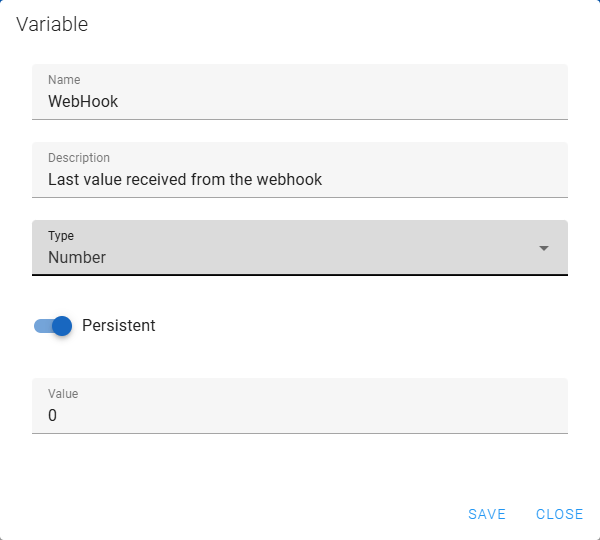
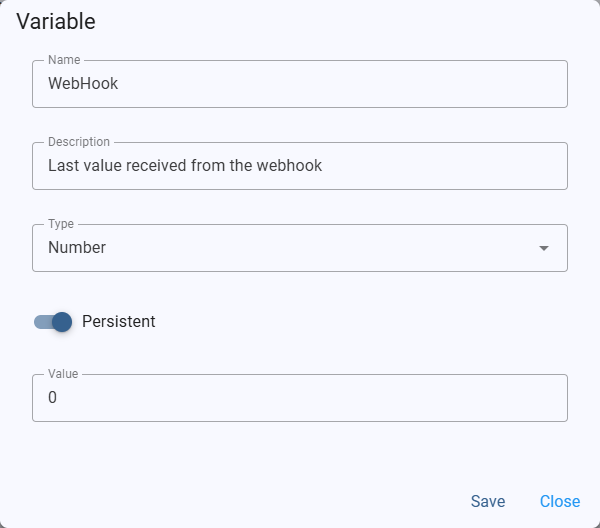
fix(docs): update first configuration guide and regenerate UI screenshots for light theme

diff --git a/tools/ui-screenshots/capture.js b/tools/ui-screenshots/capture.js
@@ -5,13 +5,13 @@ const clean = async page => { await page.addStyleTag({ content: '#__vue-devtools
 const shot = async (page, name, opts = {}) => { await clean(page); if (opts.dialog) { await page.locator('.v-overlay--active .v-overlay__content').last().screenshot({ path: out + name }); } else { await page.screenshot({ path: out + name, ...opts }); } console.log('saved', name); };
 (async () => {
   const browser = await chromium.launch({ channel: 'msedge', headless: true });
-  const page = await browser.newPage({ viewport: { width: 1400, height: 720 } });
-  await page.goto('http://localhost:5173/nodes');
+  // Light theme: the guide's images match the default look.
+  const page = await browser.newPage({ viewport: { width: 1400, height: 720 }, colorScheme: 'light' });
+  await page.goto('http://localhost:5173/nodes?theme=light');
   await page.getByText('System nodes').waitFor({ timeout: 20000 });
   await page.waitForTimeout(1500);
-  await page.locator('.v-app-bar-nav-icon').click(); await page.waitForTimeout(800);
+  // The navigation drawer is open on a wide window: the image shows it next to the empty list.
   await shot(page, 'configure-nodes-empty.png');
-  await page.locator('.v-app-bar-nav-icon').click(); await page.waitForTimeout(500);
 
   await page.getByRole('button', { name: /new node/i }).click();
   await page.getByLabel('Node Name').fill('Garage node');
@@ -36,11 +36,11 @@ const shot = async (page, name, opts = {}) => { await clean(page); if (opts.dial
   await shot(page, 'report-template.png', { dialog: true });
   await dlg.getByRole('button', { name: /save/i }).click(); await page.waitForTimeout(800);
   await page.getByRole('button', { name: /^save/i }).last().click(); await page.waitForTimeout(6000);
-  await page.goto('http://localhost:5173/nodes'); await page.getByText('System nodes').waitFor(); await page.waitForTimeout(4000);
-  await shot(page, 'configure-nodes.png', { clip: { x: 0, y: 64, width: 1400, height: 260 } });
+  await page.goto('http://localhost:5173/nodes?theme=light'); await page.getByText('System nodes').waitFor(); await page.waitForTimeout(4000);
+  await page.locator('.v-data-table').filter({ hasText: 'System nodes' }).first().screenshot({ path: out + 'configure-nodes.png' }); console.log('saved configure-nodes.png');
 
   await page.goto('http://localhost:5173/variables'); await page.waitForTimeout(4000);
-  await page.getByRole('button', { name: /add new/i }).click(); await page.waitForTimeout(800);
+  await page.getByRole('button', { name: /new variable/i }).click(); await page.waitForTimeout(800);
   const v = page.locator('.v-overlay--active').last();
   await v.getByLabel('Name').fill('WebHook');
   await v.getByLabel('Description').fill('Last value received from the webhook');

diff --git a/docs/guides/first-configuration.md b/docs/guides/first-configuration.md
@@ -10,8 +10,8 @@ Elsa, and the UI shows it live. See the [architecture overview](../architecture/
 
 ## 1. Open the configuration view
 
-Open the UI (`http://<host>/`), open the menu (☰) and select **Configure**. While no nodes are
-configured, the list is empty:
+Open the UI (`http://<host>/`) and select **Configure** in the menu (on a narrow screen, open the menu with ☰
+first). The **Nodes** page lists the nodes and the connectors; while none are configured, both lists are empty:
 
 ![Configure view with the menu open](images/configure-nodes-empty.png)
 
@@ -21,7 +21,7 @@ configured, the list is empty:
 
 ## 2. Create the node
 
-Click **new node** in the toolbar, give the node a name, and pick its **Node Id** from the list.
+Click **New node**, give the node a name, and pick its **Node Id** from the list.
 The list shows nodes that are online but not configured yet, so it contains the `RIOT2_NODE_ID`
 you gave the node container.
 
@@ -83,7 +83,7 @@ curl http://<host>:8080/api/report/<report-template-id>/value
 ## 6. Create a variable
 
 Variables hold values in the orchestrator that workflows can read and write. Open **Variables**
-from the menu, click **new**, and create a variable:
+from the menu, click **New variable**, and create a variable:
 
 ![Variable dialog](images/variable.png)
 

diff --git a/tools/ui-screenshots/README.md b/tools/ui-screenshots/README.md
@@ -61,5 +61,5 @@ no runtime data lands in a working tree.
 
 - The UI announces itself on every connection and when the orchestrator restarts (UI 1.4.0), so a
   restarted broker or orchestrator needs no page reload.
-- The screenshots show the UI exactly as it is. Fix a wrong label in RIoT2.UI, not in the images.
-  Last regenerated for UI 1.4.0 (I24).
+- The screenshots show the UI exactly as it is, in the light theme. Fix a wrong label in RIoT2.UI, not in the images.
+  Last regenerated for UI 1.15.0 (I61).
